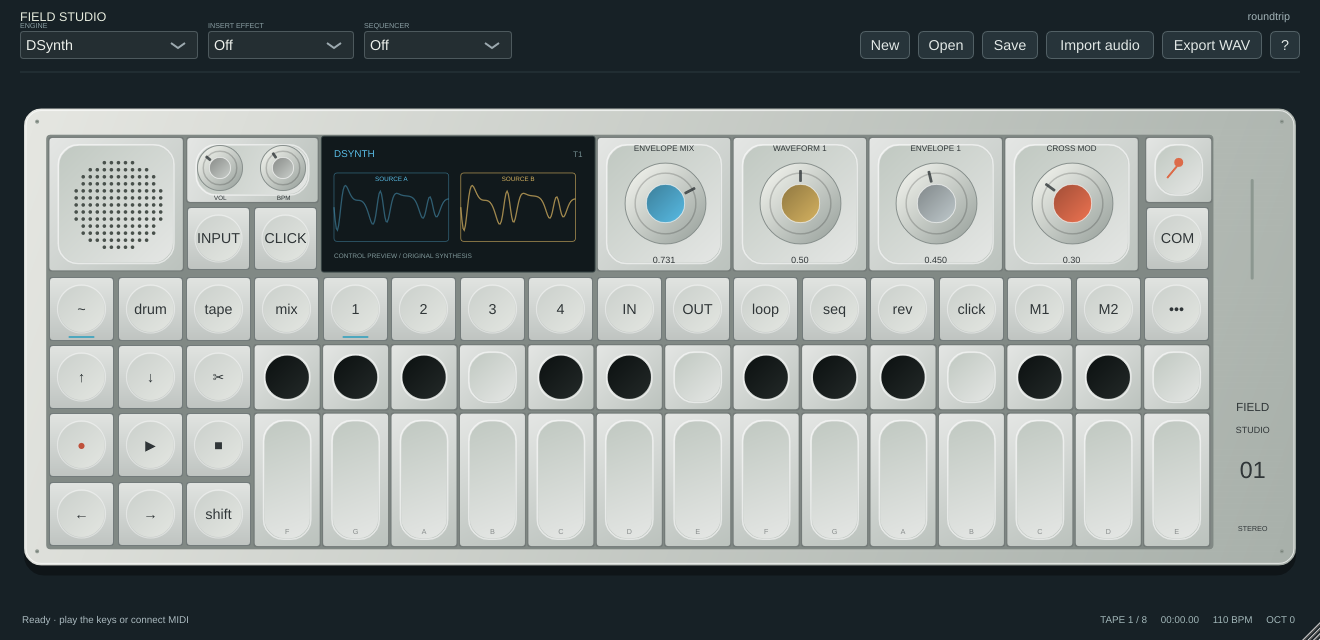
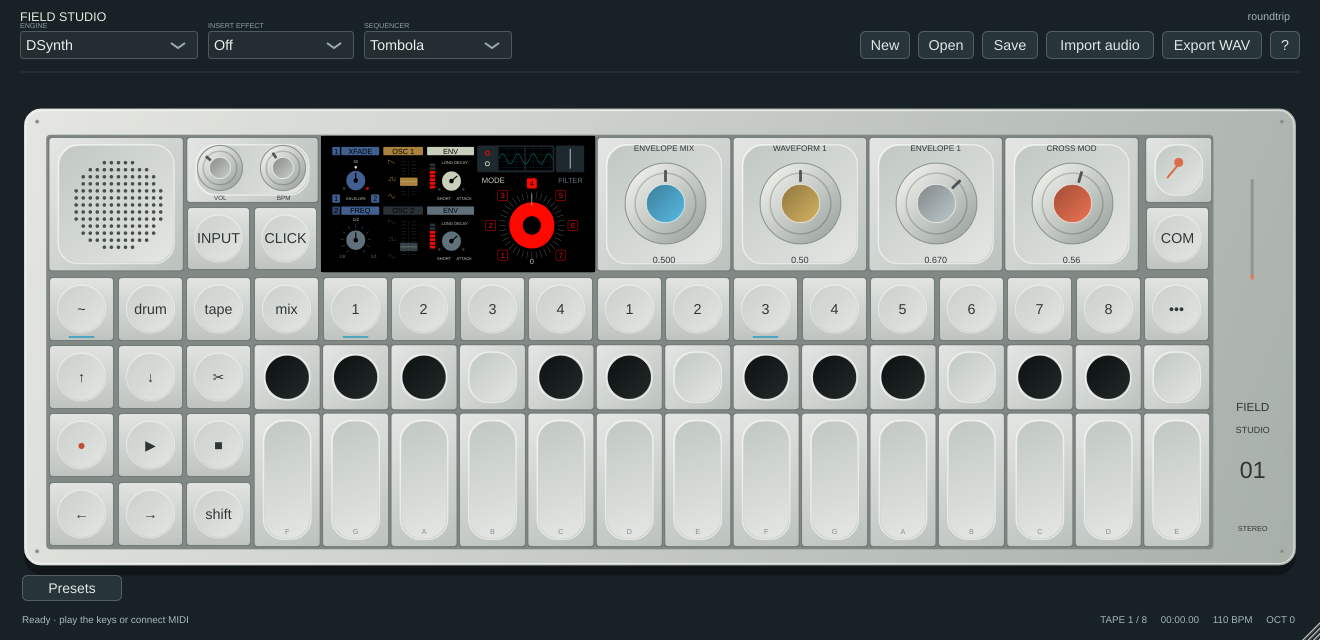
Recreate DSynth LCD layout from supplied guide reference

diff --git a/Source/DSynthScreen.cpp b/Source/DSynthScreen.cpp
@@ -1,0 +1,65 @@
+#include "DSynthScreen.h"
+#include <cmath>
+
+namespace field {
+void drawDSynthScreen(juce::Graphics& g,juce::Rectangle<float> bounds,const std::array<float,4>& macros,bool shifted,float phase){
+    juce::Graphics::ScopedSaveState state(g);g.reduceClipRegion(bounds.toNearestInt());
+    g.addTransform(juce::AffineTransform::scale(bounds.getWidth()/604.f,bounds.getHeight()/292.f).translated(bounds.getX(),bounds.getY()));
+    const juce::Colour blue{0xff425f91},ochre{0xffa9823e},cream{0xffc8d0bb},grey{0xff60717b},panel{0xff1e292f},red{0xffff0800},dark{0xff293137};
+    const float mix=juce::jlimit(0.f,1.f,macros[0]),wave=juce::jlimit(0.f,1.f,macros[1]),env=juce::jlimit(0.f,1.f,macros[2]),cross=juce::jlimit(0.f,1.f,macros[3]);
+    g.fillAll(juce::Colours::black);
+    auto text=[&](const juce::String& value,juce::Rectangle<float> area,float size,juce::Colour colour,int justification=juce::Justification::centred){g.setColour(colour);g.setFont(juce::Font(juce::FontOptions(size)));g.drawText(value,area,justification,true);};
+    auto tab=[&](const juce::String& value,juce::Rectangle<float> area,juce::Colour colour){g.setColour(colour);g.fillRoundedRectangle(area,2);text(value,area,18,juce::Colours::black);};
+    tab("1",{23,22,17,18},blue);tab("XFADE",{43,22,84,18},blue);tab("OSC 1",{136,22,88,18},ochre);tab("ENV",{233,22,104,18},cream);
+    tab("1",{23,125,17,18},blue);text("ENVELOPE",{45,125,61,18},9,cream);tab("2",{109,125,18,18},blue);
+    tab("2",{23,151,17,18},shifted?blue:blue.darker(.35f));tab("FREQ",{43,151,84,18},blue);tab("OSC 2",{136,151,88,18},shifted?ochre:dark);tab("ENV",{233,151,104,18},shifted?cream:grey);
+
+    auto knob=[&](float cx,float cy,float value,juce::Colour colour,bool ticks){
+        if(ticks){for(int i=0;i<=10;++i){float angle=-2.5f+i*.5f;g.setColour(grey);g.drawLine(cx+std::sin(angle)*27,cy-std::cos(angle)*27,cx+std::sin(angle)*34,cy-std::cos(angle)*34,.9f);}}
+        g.setColour(colour);g.fillEllipse(cx-21,cy-21,42,42);const float angle=(value-.5f)*5.f;
+        g.setColour(juce::Colours::black);g.drawLine(cx,cy,cx+std::sin(angle)*17,cy-std::cos(angle)*17,2.5f);g.fillEllipse(cx-5,cy-5,10,10);
+    };
+    knob(75,95,mix,blue,false);text(juce::String(mix*100,0),{56,45,38,18},10,cream);g.setColour(cream);g.fillEllipse(72,63,6,6);
+    g.setColour(grey.withAlpha(.5f));g.fillEllipse(46,109,6,6);g.setColour(red);g.fillEllipse(98,109,6,6);
+    // The lower ratio dial is a reference-layout illustration. It does not
+    // invent a second stored frequency parameter in the four-macro model.
+    knob(75,224,.5f,shifted?blue:grey,true);text("1/2",{51,171,48,18},11,cream);text("1/8",{21,251,48,18},11,grey);text("1/1",{91,251,48,18},11,grey);
+
+    auto oscillator=[&](float y,float value,juce::Colour colour){
+        g.setColour(colour);g.drawLine(147,y+8,147,y,1);g.drawLine(147,y,162,y+8,1);
+        g.drawLine(147,y+45,152,y+45,1);g.drawLine(152,y+45,152,y+38,1);g.drawLine(152,y+38,157,y+38,1);g.drawLine(157,y+38,157,y+45,1);g.drawLine(157,y+45,162,y+45,1);g.drawLine(162,y+45,162,y+38,1);
+        juce::Path sine;for(int i=0;i<=24;++i){float x=147+i*15.f/24,yv=y+79-std::sin(i/24.f*juce::MathConstants<float>::twoPi)*4;if(i==0)sine.startNewSubPath(x,yv);else sine.lineTo(x,yv);}g.strokePath(sine,juce::PathStrokeType(1));
+        g.setColour(dark);for(int line=0;line<11;++line){float at=y+4+line*7.1f;g.drawLine(176,at,186,at,1);g.drawLine(198,at,208,at,1);}g.drawLine(192,y+2,192,y+81,.7f);
+        const float slider=y+6+value*65;g.setColour(colour);g.fillRoundedRectangle({173,slider,39,18},2);g.setColour(cream.withAlpha(.7f));g.drawLine(174,slider+9,211,slider+9,1);
+    };
+    oscillator(50,wave,ochre);oscillator(180,env,shifted?ochre:grey.withAlpha(.55f));
+
+    auto envelope=[&](float y,float value,juce::Colour colour){
+        const int bars=(int)std::round(value*6);for(int i=0;i<7;++i){g.setColour(i<=bars?red:dark);g.fillRect(239.f,y+55-i*8,12.f,6.f);}
+        text("LONG DECAY",{252,y-2,84,16},10,cream);knob(287,y+45,value,colour,false);
+        g.setColour(grey.withAlpha(.5f));g.fillEllipse(257,y+60,6,6);g.fillEllipse(310,y+60,6,6);text("SHORT",{252,y+76,37,14},10,cream);text("ATTACK",{293,y+76,44,14},10,cream);
+    };
+    envelope(51,env,cream);envelope(181,env,shifted?cream:grey);
+
+    // Upper-right mode selector, waveform thumbnail and filter marker.
+    g.setColour(panel);g.fillRoundedRectangle({344,19,171,58},4);g.fillRoundedRectangle({518,19,63,58},4);
+    g.setColour(juce::Colours::black);g.fillRect(391.f,22.f,120.f,51.f);
+    g.setColour(juce::Colour(0xff0e3840));for(int i=0;i<7;++i)g.drawLine(392+i*19.f,22,392+i*19.f,72,.6f);for(int i=0;i<4;++i)g.drawLine(392,25+i*14.f,511,25+i*14.f,.6f);
+    g.setColour(grey);g.drawLine(450,22,450,72,.8f);
+    juce::Path preview;for(int i=0;i<140;++i){float u=i/139.f;float signal=std::sin(u*juce::MathConstants<float>::twoPi*(2+wave*3)+std::sin(phase)*cross*.2f);float x=392+u*119,y=48-signal*11;if(i==0)preview.startNewSubPath(x,y);else preview.lineTo(x,y);}g.setColour(juce::Colour(0xff0d8d96));g.strokePath(preview,juce::PathStrokeType(1));
+    for(int i=0;i<2;++i){g.setColour(i==0?red:cream);g.drawEllipse(362,31+i*23.f,9,9,2);}
+    g.setColour(cream);g.drawLine(550,26,550,69,2);text("MODE",{344,83,71,23},19,cream);text("FILTER",{512,83,77,23},18,grey);
+
+    // Cross-modulation/filter ring, with the guide's eight numbered positions.
+    constexpr float cx=465,cy=192;
+    g.setColour(red);g.fillEllipse(cx-50,cy-50,100,100);g.setColour(juce::Colours::black);g.fillEllipse(cx-20,cy-20,40,40);
+    for(int tick=0;tick<40;++tick){float angle=juce::MathConstants<float>::twoPi*tick/40;g.setColour(grey);g.drawLine(cx+std::sin(angle)*57,cy-std::cos(angle)*57,cx+std::sin(angle)*73,cy-std::cos(angle)*73,.8f);}
+    const int selected=juce::jlimit(0,7,(int)(cross*7.999f));
+    const float pointer=(selected-4)*juce::MathConstants<float>::pi/4;
+    g.setColour(cream);g.drawLine(cx+std::sin(pointer)*69,cy-std::cos(pointer)*69,cx+std::sin(pointer)*43,cy-std::cos(pointer)*43,1.5f);
+    for(int step=0;step<8;++step){float angle=-juce::MathConstants<float>::pi+step*juce::MathConstants<float>::pi/4;float x=cx+std::sin(angle)*91,y=step==0?270.f:cy-std::cos(angle)*91;auto box=juce::Rectangle<float>(22,22).withCentre({x,y});
+        if(step==selected){g.setColour(red);g.fillRoundedRectangle(box,3);}else if(step!=0){g.setColour(red);g.drawRoundedRectangle(box,3,1);}
+        text(juce::String(step),box,18,step==selected?juce::Colours::black:step==0?cream:red);
+    }
+}
+}

diff --git a/Source/PluginEditor.cpp b/Source/PluginEditor.cpp
@@ -1,5 +1,6 @@
 #include "PluginEditor.h"
 #include "DimensionScreen.h"
+#include "DSynthScreen.h"
 #include <cmath>
 #include <algorithm>
 
@@ -249,6 +250,7 @@ void FieldEditor::drawScreen(juce::Graphics& g){
     auto content=r.reduced(12,9);if(presetBrowser){drawPresetBrowser(g,content);g.restoreState();return;}if(mode==2){drawTape(g,content);g.restoreState();return;}if(mode==3){drawMixer(g,content);g.restoreState();return;}if(mode==4){drawSequence(g,content);g.restoreState();return;}
     const int engine=(int)processor.value("engine");
     if(mode==0&&page==0&&engine==5){field::drawDimensionScreen(g,r,processor.value("macro1"),processor.value("macro2"),processor.value("macro3"),processor.value("macro4"),processor.getSampleRate()>0?processor.getSampleRate():44100.,tick/30.f);g.restoreState();return;}
+    if(mode==0&&page==0&&engine==10){field::drawDSynthScreen(g,r,{{processor.value("macro1"),processor.value("macro2"),processor.value("macro3"),processor.value("macro4")}},shifted,tick/30.f);g.restoreState();return;}
     juce::String title=mode==1?"DRUM / PAD "+juce::String(selectedPad+1):FieldProcessor::engineNames[juce::jlimit(0,14,engine)].toUpperCase();
     if(page==1)title=mode==1&&engine==14?"DYNAMIC ENVELOPE":shifted&&mode==0&&engine!=13?"PLAY MODE":"ENVELOPE";
     else if(page==2)title=FieldProcessor::effectNames[juce::jlimit(0,FieldProcessor::effectNames.size()-1,(int)processor.value("effect"))].toUpperCase();
@@ -402,7 +404,7 @@ void FieldEditor::drawEngine(juce::Graphics& g,juce::Rectangle<float> a){
     if(e==9){int count=16+(int)(n*40);for(int i=0;i<count;++i){float u=i/(float)juce::jmax(1,count-1),x=a.getX()+u*a.getWidth(),noise=std::sin(i*12.17f+z*7)*w*5,v=std::sin(u*(8+z*12))*a.getHeight()*(.15f+m*.25f);g.setColour(colours[0]);g.fillEllipse(x-1,a.getCentreY()+v+noise-1,2,2);g.setColour(colours[3]);g.fillEllipse(x-1,a.getCentreY()-v-noise-1,2,2);if(i%3==0){g.setColour(colours[2].withAlpha(.25f+z*.4f));g.drawLine(x,a.getCentreY()-v,x,a.getCentreY()+v,.8f);}}return;}
     if(e==5){field::drawDimensionScreen(g,a,m,n,z,w,processor.getSampleRate()>0?processor.getSampleRate():44100.,tick/30.f);return;}
     if(e==6){for(int k=0;k<6;++k){juce::Path string;for(int i=0;i<180;++i){float u=i/179.f,x=a.getX()+u*a.getWidth(),y=a.getY()+k*11+std::sin(u*juce::MathConstants<float>::pi)*std::sin(u*(7+m*20+k*(.2f+z*2))+w*3)*8*(.2f+m)*std::exp(-u*(.1f+n*3));if(i==0)string.startNewSubPath(x,y);else string.lineTo(x,y);}g.setColour(colours[(size_t)(k%4)]);g.strokePath(string,juce::PathStrokeType(.8f));}return;}
-    if(e==10){for(int k=0;k<2;++k){auto r=juce::Rectangle<float>(a.getX()+k*126,a.getY()+5,114,a.getHeight()-10);g.setColour(colours[(size_t)k].withAlpha(.25f+(k==0?1-m:m)*.65f));g.drawRoundedRectangle(r,3,.8f);juce::Path wave;for(int i=0;i<100;++i){float u=i/99.f,ph=u*(2+n*5)+std::sin(u*15)*w,signal=std::sin(ph*juce::MathConstants<float>::twoPi)*std::exp(-u/(.1f+z*2));float x=r.getX()+u*r.getWidth(),y=r.getCentreY()+signal*r.getHeight()*.35f;if(i==0)wave.startNewSubPath(x,y);else wave.lineTo(x,y);}g.strokePath(wave,juce::PathStrokeType(1.3f));text(g,k==0?"SOURCE A":"SOURCE B",r.withHeight(11),7,colours[(size_t)k]);}return;}
+    if(e==10){field::drawDSynthScreen(g,a,{{m,n,z,w}},shifted,tick/30.f);return;}
     if(e==12||e==13){
         auto diagram=a.withTrimmedBottom(13);
         if(e==12){for(int i=0;i<12;++i){float u=i/11.f,shape=std::exp(-std::pow((u-n)*(.8f+z*7),2))*(.35f+m*.65f),height=diagram.getHeight()*.8f*shape;g.setColour(colours[(size_t)(i%4)].withAlpha(.25f+w*.7f));g.fillRoundedRectangle(diagram.getX()+i*20.f,diagram.getBottom()-height,12,height,1);}text(g,"BAND SHAPE PREVIEW",diagram.withHeight(10),7,colours[2],juce::Justification::centredLeft);}

diff --git a/tests/plugin_tests.cpp b/tests/plugin_tests.cpp
@@ -215,6 +215,8 @@ int main(int argc,char** argv){
     p.drumMode=false;p.setValue("engine",5);p.setValue("macro1",.24f);p.setValue("macro2",.62f);p.setValue("macro3",.42f);p.setValue("macro4",.75f);ui->showPageForTesting(0,0);captureNamed("dimension-reference");
     p.setValue("macro1",0);p.setValue("macro2",0);p.setValue("macro3",0);p.setValue("macro4",0);ui->refreshForTesting();captureNamed("dimension-minimum");
     p.setValue("macro1",1);p.setValue("macro2",1);p.setValue("macro3",1);p.setValue("macro4",1);ui->refreshForTesting();captureNamed("dimension-maximum");
+    p.drumMode=false;p.setValue("engine",10);p.setValue("macro1",.5f);p.setValue("macro2",.5f);p.setValue("macro3",.67f);p.setValue("macro4",.56f);ui->showPageForTesting(0,0);captureNamed("dsynth-reference");ui->setShiftForTesting(true);captureNamed("dsynth-shifted");ui->setShiftForTesting(false);
+    for(int i=1;i<=4;++i)p.setValue("macro"+juce::String(i),0);ui->refreshForTesting();captureNamed("dsynth-minimum");for(int i=1;i<=4;++i)p.setValue("macro"+juce::String(i),1);ui->refreshForTesting();captureNamed("dsynth-maximum");
     p.drumMode=false;p.setValue("engine",10);ui->showPageForTesting(0,0);ui->openPresetBrowserForTesting(6);captureNamed("preset-browser");require(ui->keyPressed(juce::KeyPress(juce::KeyPress::escapeKey)),"Close browser key failed");
     for(int e=0;e<FieldProcessor::engineNames.size();++e){p.setValue("engine",(float)e);for(int page=0;page<4;++page){ui->showPageForTesting(e==14?1:0,page);require(editor->createComponentSnapshot(editor->getLocalBounds()).isValid(),"Engine/module combination did not render");}}
     p.drumMode=false;p.setValue("engine",0);for(int fx=0;fx<FieldProcessor::effectNames.size();++fx){p.setValue("effect",(float)fx);p.setValue("masterEffect",(float)fx);ui->showPageForTesting(0,2);require(editor->createComponentSnapshot(editor->getLocalBounds()).isValid(),"Patch FX did not render");captureNamed("fx-"+juce::String(fx));ui->showPageForTesting(3,2);require(editor->createComponentSnapshot(editor->getLocalBounds()).isValid(),"Master FX did not render");captureNamed("master-fx-"+juce::String(fx));}

diff --git a/Source/DSynthScreen.h b/Source/DSynthScreen.h
@@ -1,0 +1,8 @@
+#pragma once
+#include <juce_gui_basics/juce_gui_basics.h>
+#include <array>
+namespace field {
+// Original vector control illustration from the supplied DSynth guide image.
+// Secondary rows are conceptual: the audio model still has four DSynth macros.
+void drawDSynthScreen(juce::Graphics&,juce::Rectangle<float>,const std::array<float,4>&,bool shifted,float phase);
+}

diff --git a/docs/PARITY.md b/docs/PARITY.md
@@ -54,3 +54,7 @@ Sample import now restores supported OP-1 melodic markers/root pitch and drum-ki
 ## Dimension screen reference pass
 
 The supplied Dimension guide image is now represented by an original full-LCD vector layout: six waveform/noise rows with a selection highlight, blue stereo XY-style curves, axes/grid, ochre stereo-position indicator, filter-frequency readout and red resonance-style peak. The drawing responds to all four existing macro values; XY motion is an animated control illustration, not sampled audio telemetry. Frequency displays the software engine's unmodulated cutoff law, with its sample-rate ceiling, instead of copying the guide's example 440–1440 range. This pass changes rendering only. The software oscillator, filter and macro laws remain original approximations and do not establish hardware waveform selection, stereo modulation or resonance equivalence. Native screenshots cover the reference-like control state and both macro extremes.
+
+## DSynth screen reference pass
+
+An original full-LCD drawing now follows the supplied DSynth guide image: stacked XFADE/FREQ and OSC 1/OSC 2 rows, waveform rails, two illustrated envelope columns with red bars, a mode/waveform thumbnail, filter marker and eight-position red modulation ring. Existing macros drive the control illustration; Shift highlights the lower row. Native screenshots cover normal/Shift views and both macro extremes. This is a visual pass: independent secondary frequency/waveform/envelope/filter parameters remain missing, the lower ratio dial is a layout illustration and the envelope rows are not separately measured telemetry. Existing DSynth audio and preset interpretation are unchanged. The displayed layout does not establish hardware sonic or shifted-control equivalence.
